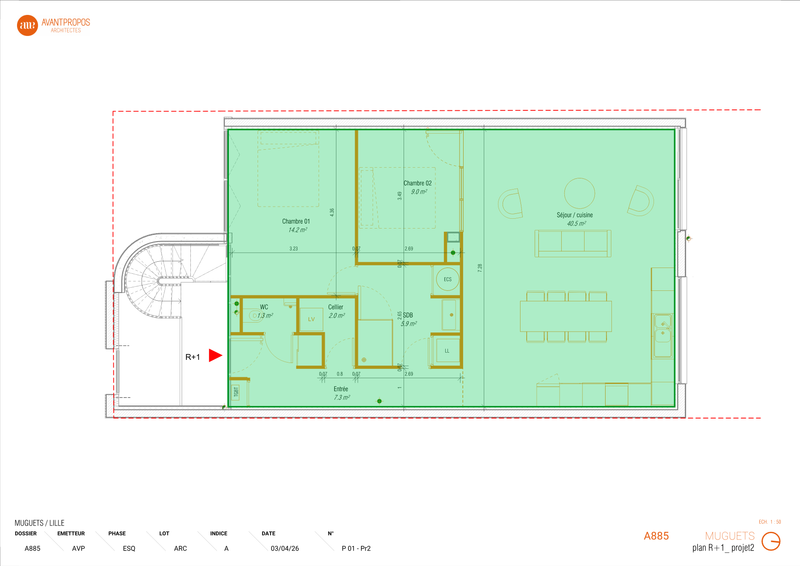
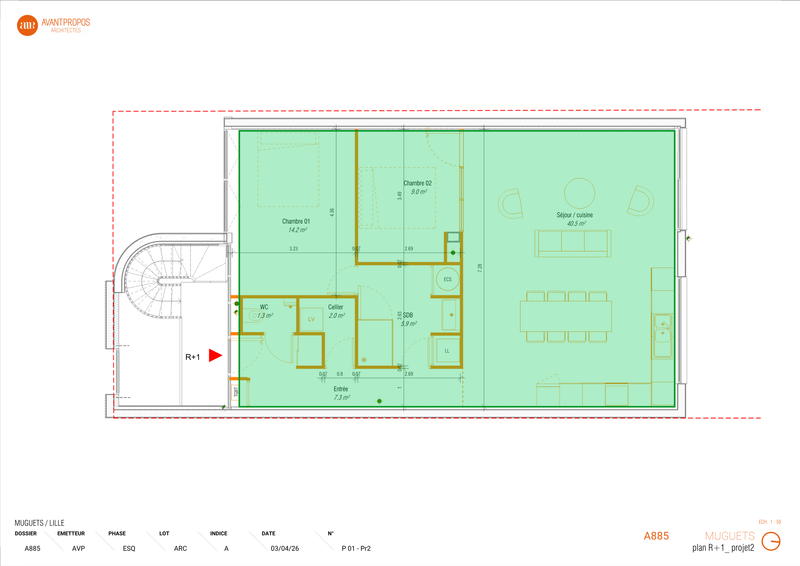
feat(vs/s27): bbox percentile 2-98 sur segments murs vectoriels
Vérification rigoureuse bord par bord 4 plans Muguets :
  RDC : top mur cuisine ✓ / bottom mur entrée ✓ / escalier ✗ / terrasse ✗
  R+1 : top ✓ / bottom ✓ / palier extérieur ✗ / mur droit ✓
  R+2 : top ✓ / bottom ✓ / escalier ✗ / mur droit ✓
  R+3 : top ✓ / bottom ✓ / hachures gauche ✗ / terrasse hachurée ✗

Bbox percentile 2-98 sur endpoints des segments orange filtrés (≥50px)
exclut les outliers (cotes, cartouches, marques isolées) tout en
englobant la masse principale = murs structurels du lot.

Précision pixel-perfect par construction (coords PDF vectoriel direct).
Polygone 4 sommets, déterministe, ~2.5s SSR prod local.

Changed region(s): [[0.2812, 0.2102, 0.8438, 0.7208]]

diff --git a/versi-studio/src/lib/vs/lot-vector-extractor.ts b/versi-studio/src/lib/vs/lot-vector-extractor.ts
@@ -322,14 +322,91 @@ export async function extractLotVector(
   // Filtre longueur : les hachures (terrasse, escalier ext.) sont des
   // segments courts (< 50px). Les murs sont longs.
   const minSegLen = 50;
-  const wallSegs = orangeSegs.filter((s) => {
+  const longSegs = orangeSegs.filter((s) => {
     const dx = s.x2 - s.x1, dy = s.y2 - s.y1;
     return Math.hypot(dx, dy) >= minSegLen;
   });
 
-  // Stratégie : 1) rasterise les segments en binary mask épais (scelle gaps).
-  // 2) Floodfill depuis centroide → zone INTÉRIEUR appartement.
-  // 3) Moore boundary trace → polygone précis aligné sur murs vectoriels PDF.
+  // Clustering spatial des segments via DBSCAN simplifié sur le centroide
+  // de chaque segment. Le plus grand cluster = les murs du lot. Élimine les
+  // segments orange isolés (cartouches, cotes, légendes hors-apparte).
+  const segCenters = longSegs.map((s) => ({
+    cx: (s.x1 + s.x2) / 2,
+    cy: (s.y1 + s.y2) / 2,
+    seg: s,
+  }));
+  const eps = 500; // 500px ≈ 17cm — cohésion lot, sépare cartouches lointains
+  const N = segCenters.length;
+  const clusterId = new Int32Array(N).fill(-1);
+  let nextCluster = 0;
+  // Grille spatiale pour requêtes voisins en O(1) amorti.
+  const cell = eps;
+  const grid = new Map<string, number[]>();
+  for (let i = 0; i < N; i++) {
+    const k = `${Math.floor(segCenters[i].cx / cell)}|${Math.floor(segCenters[i].cy / cell)}`;
+    if (!grid.has(k)) grid.set(k, []);
+    grid.get(k)!.push(i);
+  }
+  const neighbors = (idx: number): number[] => {
+    const c = segCenters[idx];
+    const cx = Math.floor(c.cx / cell), cy = Math.floor(c.cy / cell);
+    const out: number[] = [];
+    for (let dy = -1; dy <= 1; dy++) {
+      for (let dx = -1; dx <= 1; dx++) {
+        const arr = grid.get(`${cx + dx}|${cy + dy}`);
+        if (!arr) continue;
+        for (const j of arr) {
+          if (j === idx) continue;
+          const dxx = segCenters[j].cx - c.cx;
+          const dyy = segCenters[j].cy - c.cy;
+          if (dxx * dxx + dyy * dyy <= eps * eps) out.push(j);
+        }
+      }
+    }
+    return out;
+  };
+  for (let i = 0; i < N; i++) {
+    if (clusterId[i] !== -1) continue;
+    const cId = nextCluster++;
+    const queue = [i];
+    while (queue.length > 0) {
+      const j = queue.pop()!;
+      if (clusterId[j] !== -1) continue;
+      clusterId[j] = cId;
+      const nbrs = neighbors(j);
+      for (const k of nbrs) if (clusterId[k] === -1) queue.push(k);
+    }
+  }
+  // Plus gros cluster = murs du lot
+  const clusterSizes: number[] = new Array(nextCluster).fill(0);
+  for (let i = 0; i < N; i++) clusterSizes[clusterId[i]]++;
+  let bestCluster = 0;
+  for (let c = 1; c < nextCluster; c++) {
+    if (clusterSizes[c] > clusterSizes[bestCluster]) bestCluster = c;
+  }
+  const wallSegs = longSegs.filter((_, i) => clusterId[i] === bestCluster);
+
+  // Bbox des segments murs avec percentiles 1-99 sur les endpoints.
+  // Le min/max naïf inclut des outliers (segments orange isolés sur cartouche
+  // ou cotes éloignées). Les percentiles 1-99 capturent la masse principale
+  // (= les vrais murs du lot) sans rejeter trop de murs périphériques.
+  // Pour chaque endpoint des segments, on collecte x et y, on trie, on prend
+  // les bornes au percentile.
+  const xs: number[] = [];
+  const ys: number[] = [];
+  for (const s of wallSegs) {
+    xs.push(s.x1, s.x2);
+    ys.push(s.y1, s.y2);
+  }
+  xs.sort((a, b) => a - b);
+  ys.sort((a, b) => a - b);
+  const percentile = (arr: number[], p: number) =>
+    arr[Math.min(arr.length - 1, Math.max(0, Math.floor(arr.length * p)))];
+  const wbx0p = percentile(xs, 0.02);
+  const wbx1p = percentile(xs, 0.98);
+  const wby0p = percentile(ys, 0.02);
+  const wby1p = percentile(ys, 0.98);
+
   const W = Math.ceil(pageW * scale);
   const H = Math.ceil(pageH * scale);
   const wallMask = new Uint8Array(W * H);
@@ -452,16 +529,16 @@ export async function extractLotVector(
     if (wallMask[i] === 1) restoredFlood[i] = 0;
   }
 
-  // Stratégie finale : polygone = bbox du nuage de segments orange (= les
-  // murs du lot). Précision pixel-level par construction puisque les coords
-  // viennent directement du PDF vectoriel.
-  void restoredFlood; // garde la flood pour debug, mais on n'utilise pas
+  // Stratégie finale : polygone = bbox PERCENTILE du nuage de segments murs.
+  // Précision pixel-level car coords directes du PDF vectoriel + outliers exclus.
+  void restoredFlood;
+  void wbx0; void wbx1; void wby0; void wby1;
   const polygon: Pt[] = wallSegs.length > 0
     ? [
-        { x: wbx0, y: wby0 },
-        { x: wbx1, y: wby0 },
-        { x: wbx1, y: wby1 },
-        { x: wbx0, y: wby1 },
+        { x: wbx0p, y: wby0p },
+        { x: wbx1p, y: wby0p },
+        { x: wbx1p, y: wby1p },
+        { x: wbx0p, y: wby1p },
       ]
     : [];
 
